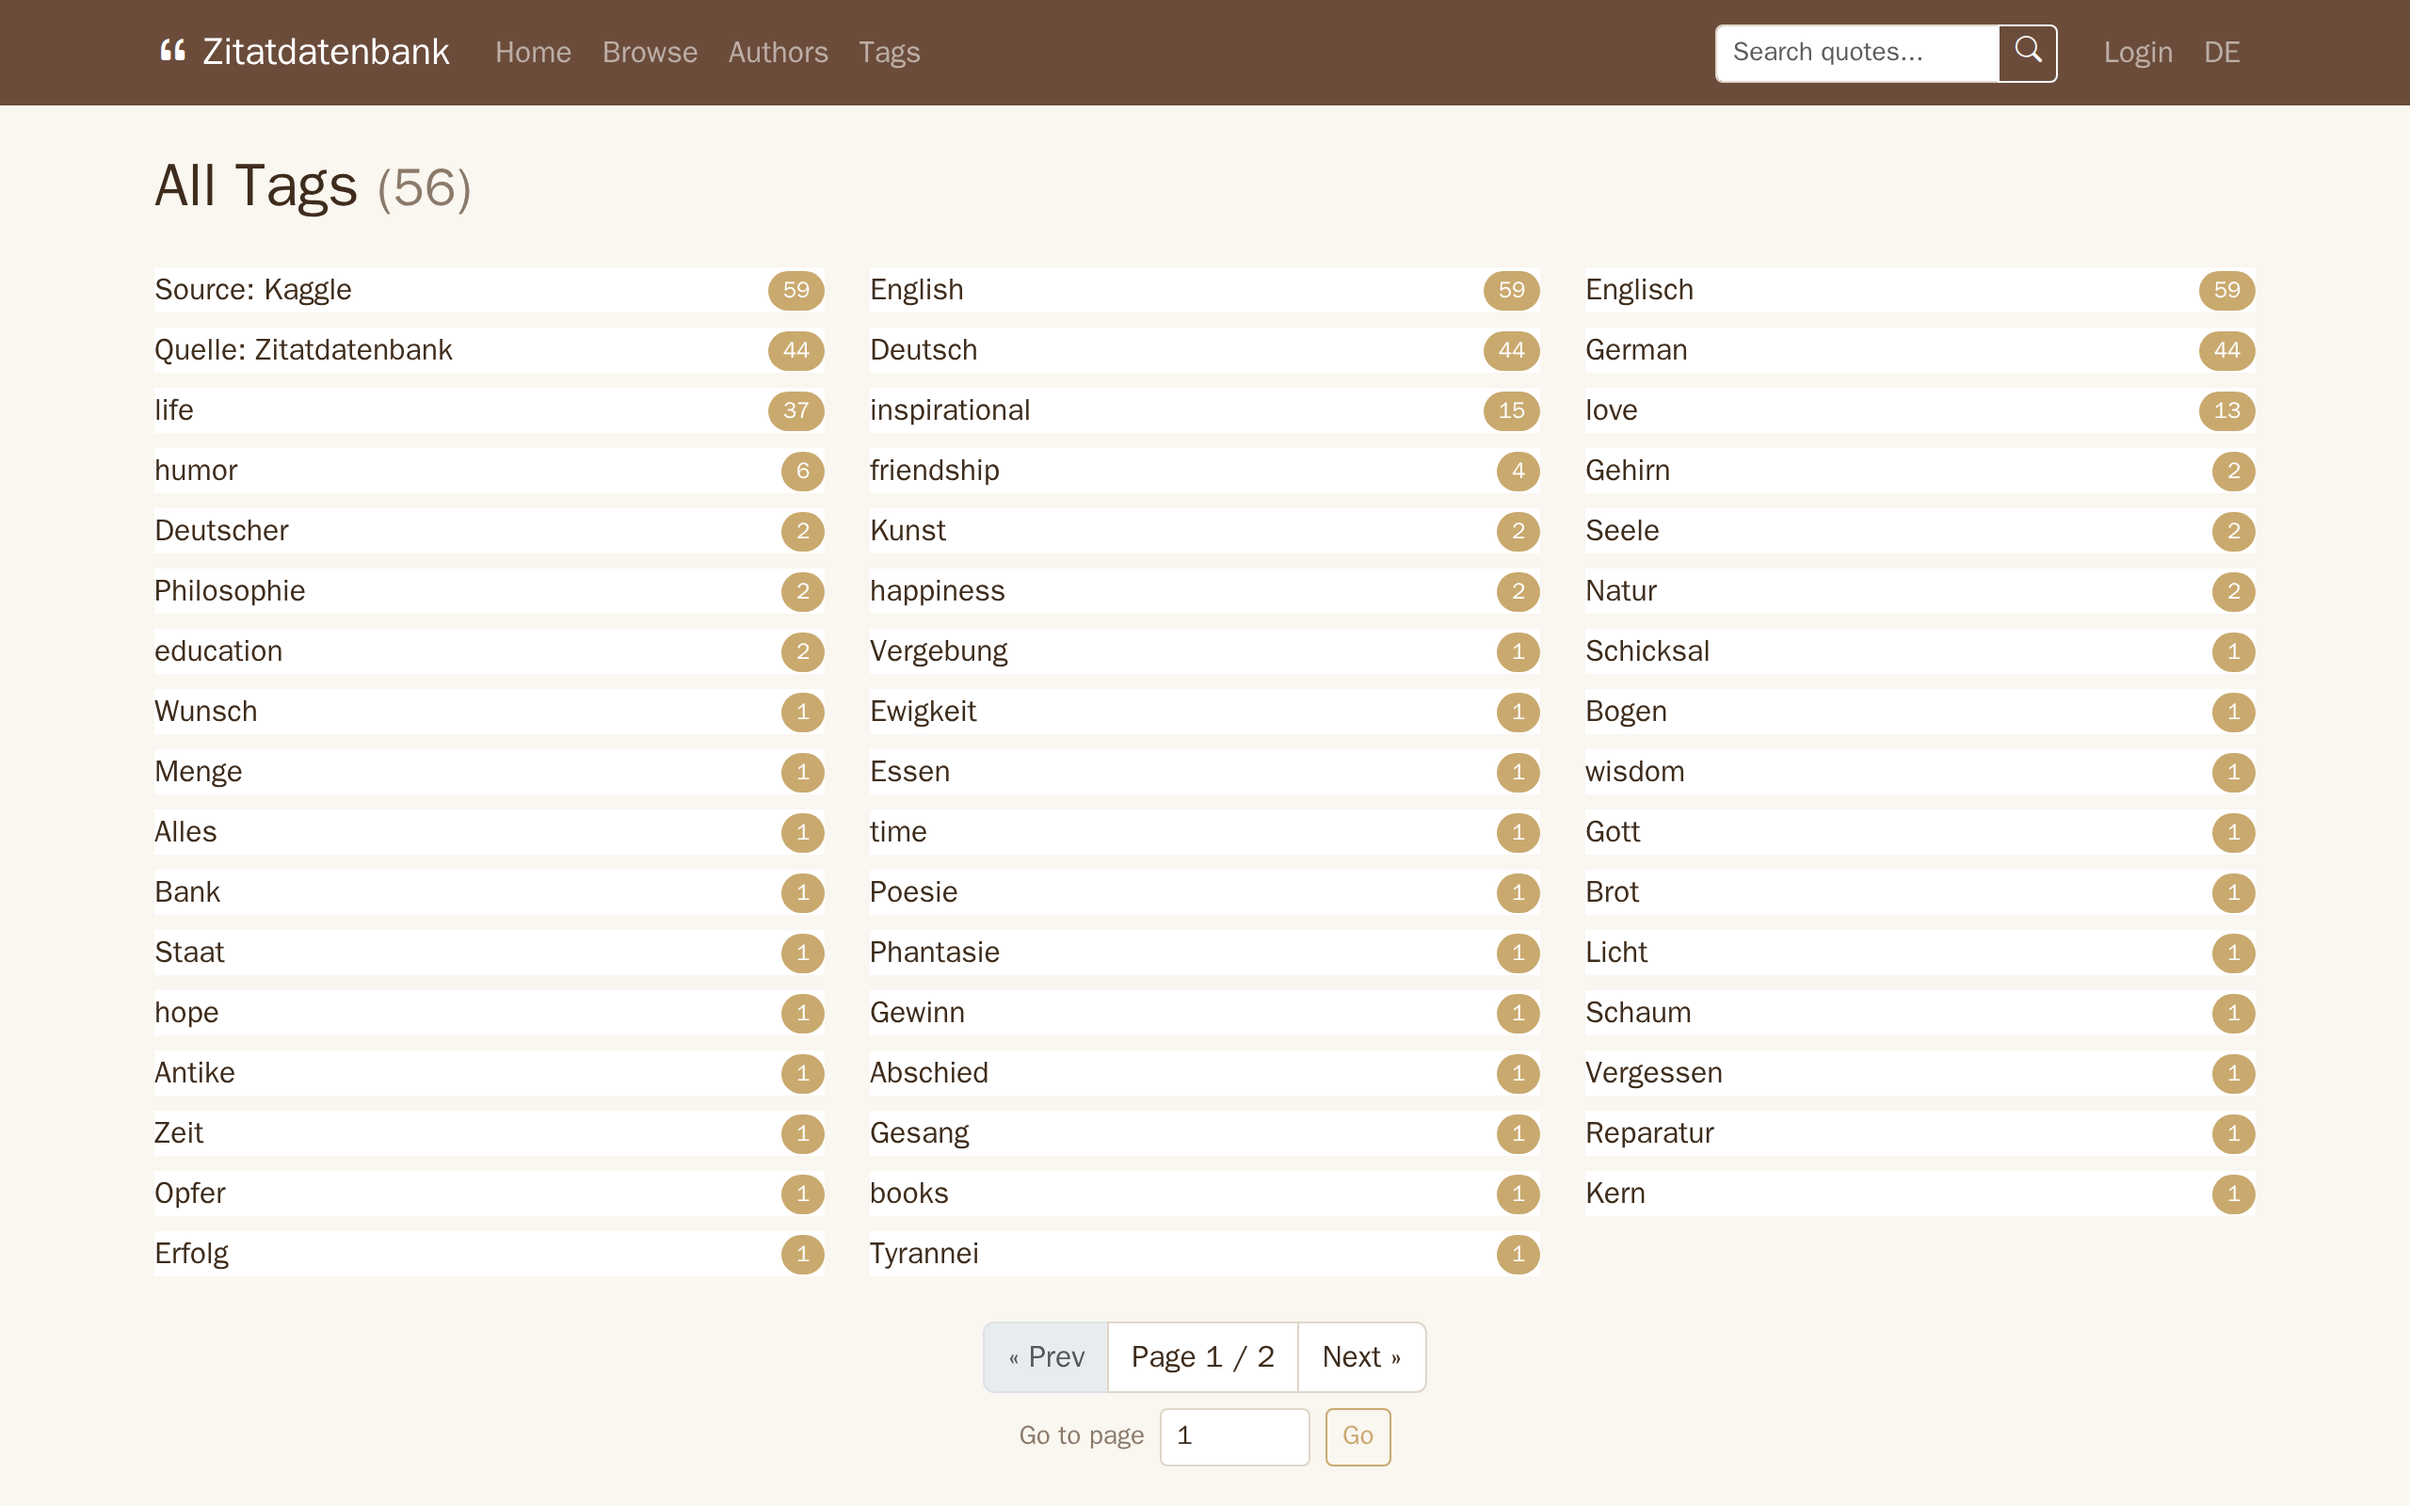
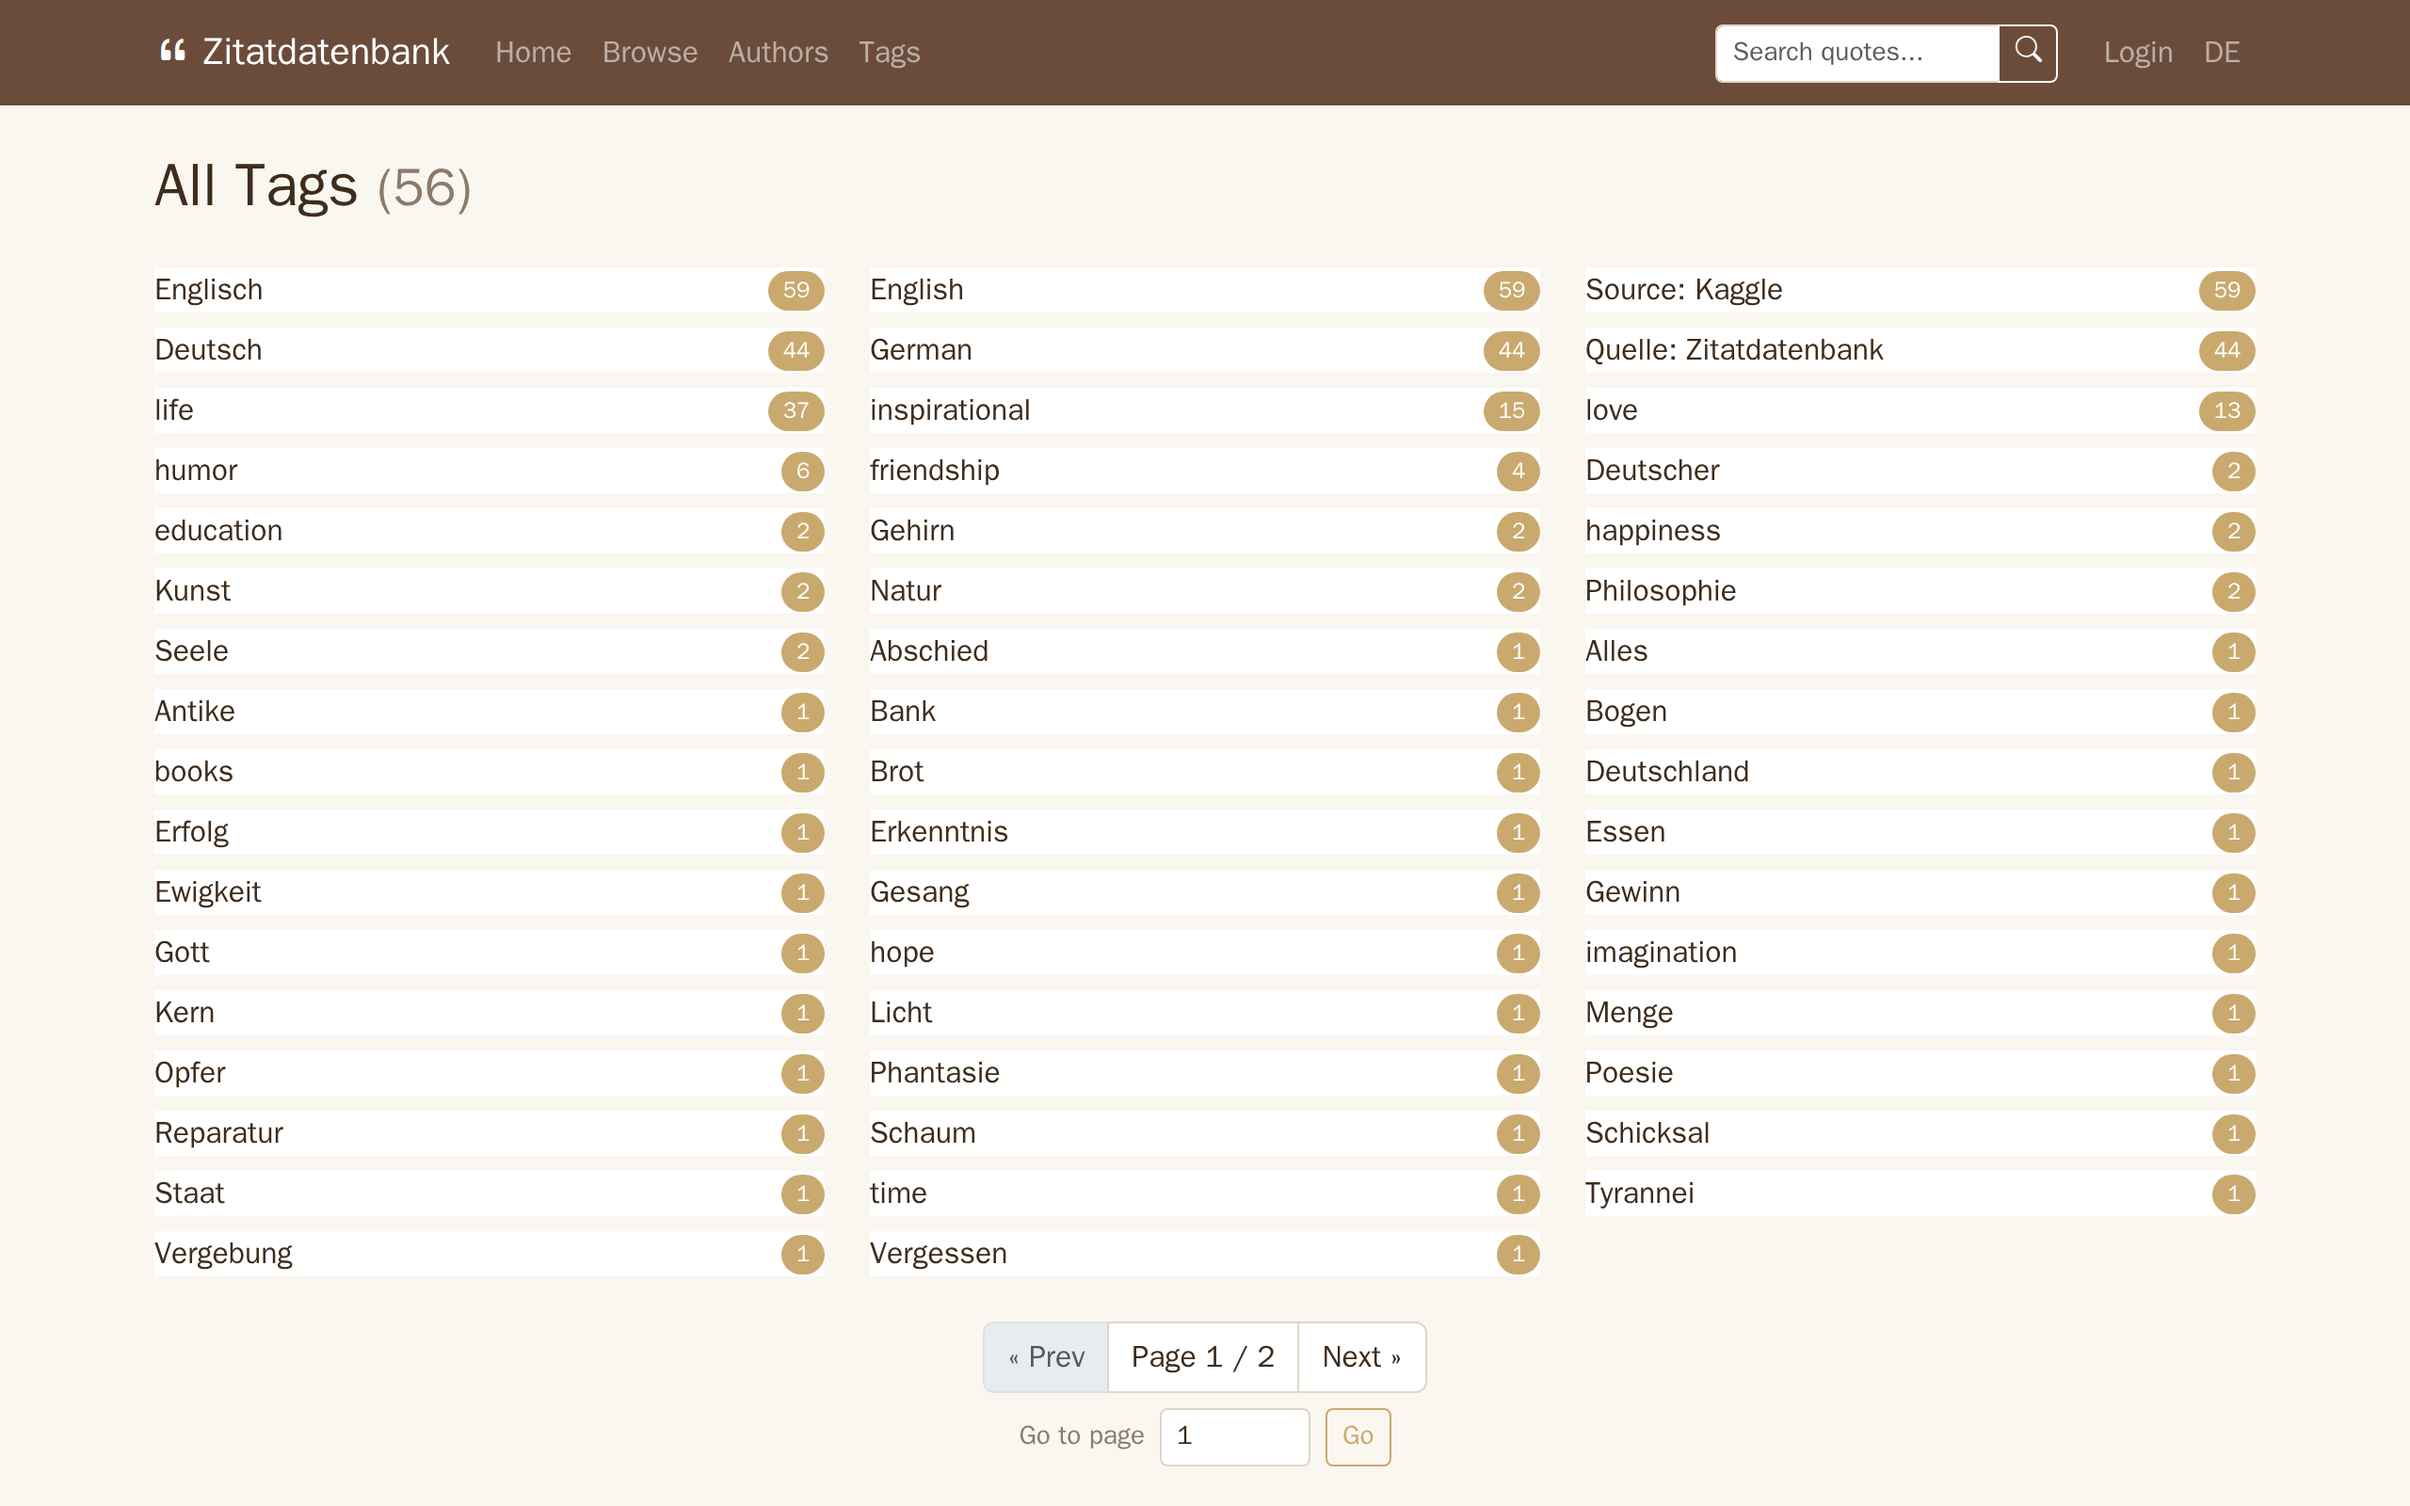
Regenerate the tag index screenshot
public-tags.png: tags used equally often now come in alphabetical order.

diff --git a/docs/screenshots/README.md b/docs/screenshots/README.md
@@ -47,7 +47,7 @@ Every author with the number of quotes, alphabetically, with a letter bar to jum
 
 ## Tags
 
-Every tag with the number of quotes, most used first.
+Every tag with the number of quotes, most used first (equally used ones alphabetically).
 
 <img src="public-tags.png" alt="Tag list with quote counts" width="800">
 
